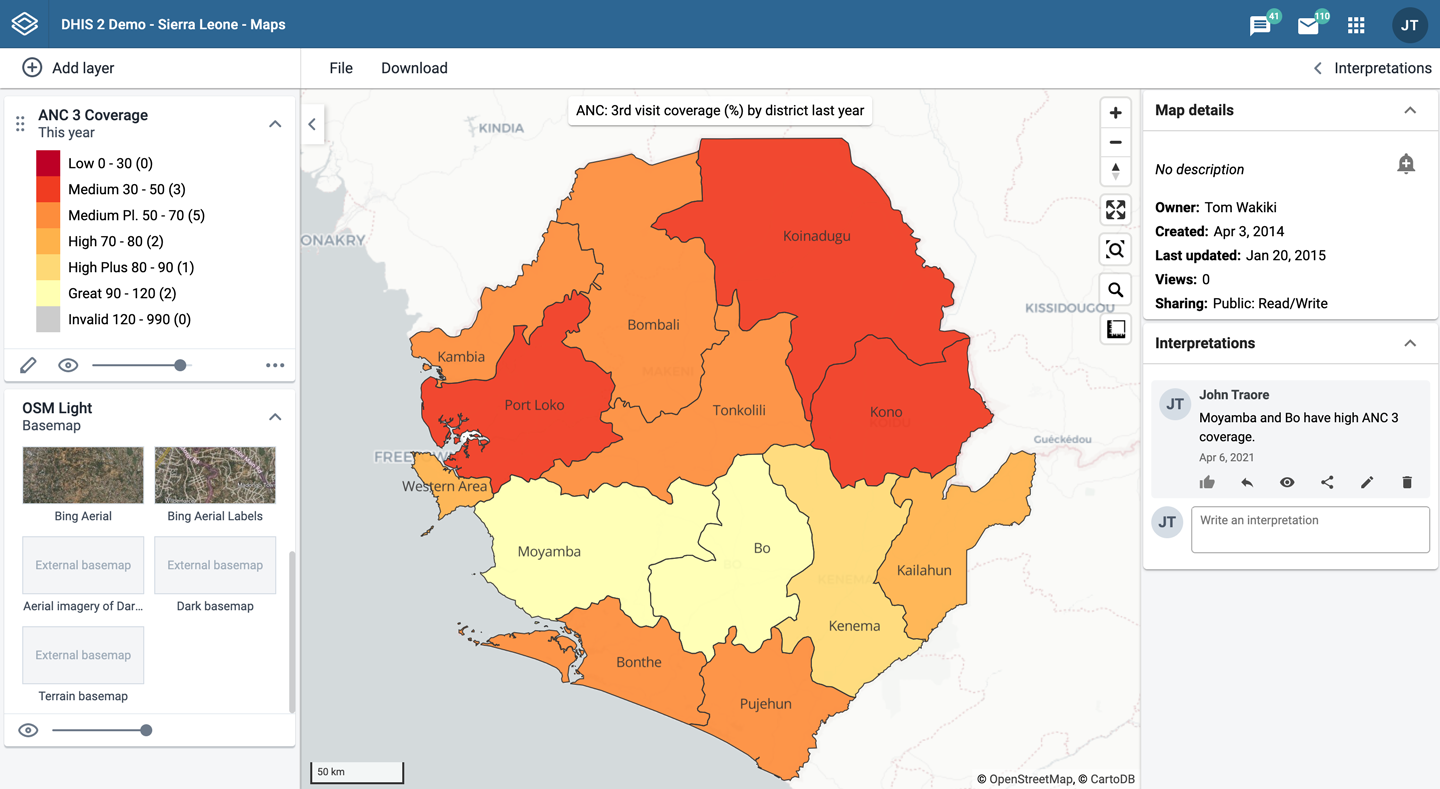
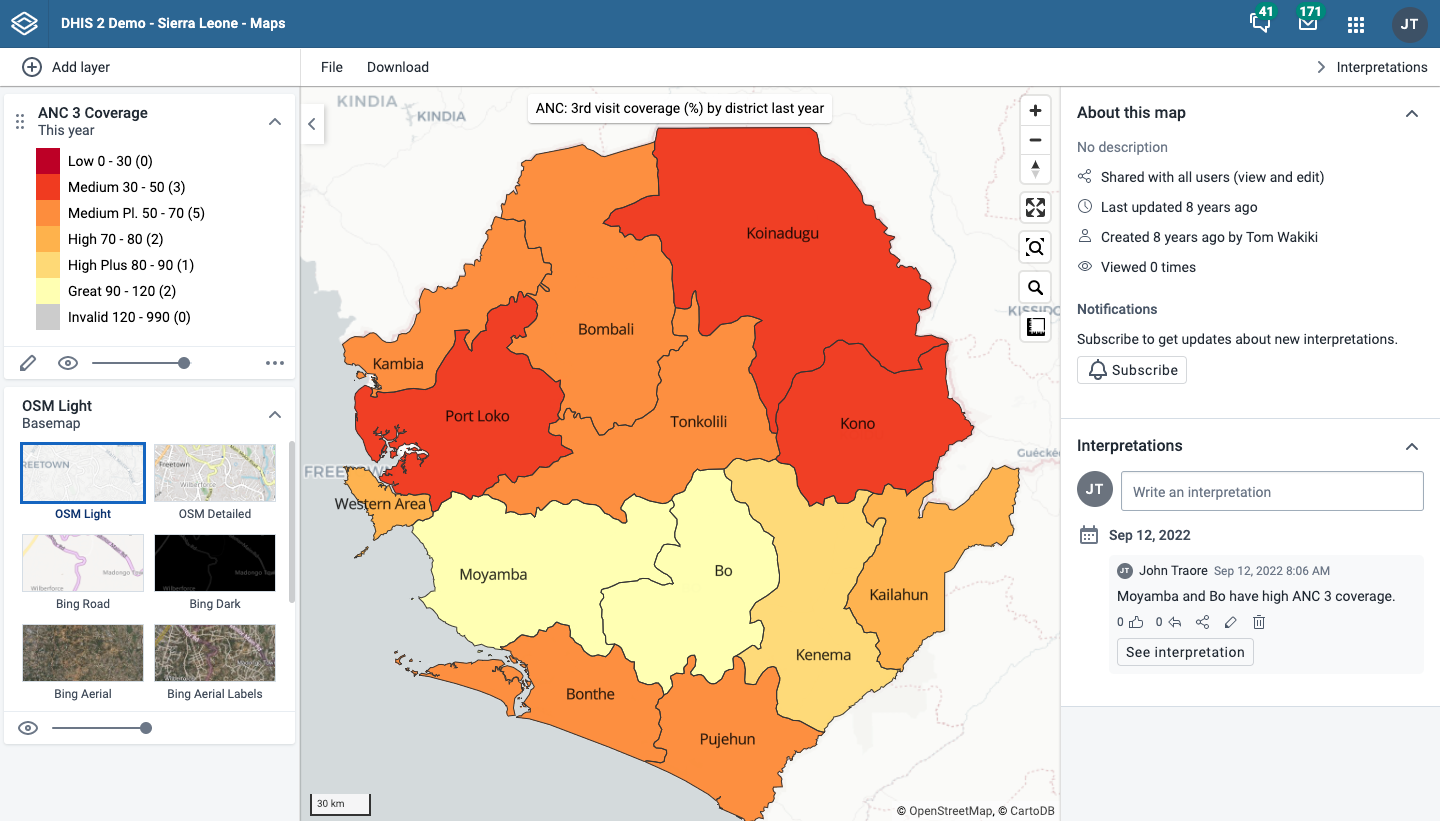
docs: DHIS2 Maps 2.39

diff --git a/src/user/using-the-maps-app.md b/src/user/using-the-maps-app.md
@@ -211,6 +211,10 @@ layer** selection. This opens the Events layer configuration dialog.
       deviation; Variance; Min; Max. See also [Aggregation
       operators](https://dhis2.github.io/dhis2-docs/master/en/user/html/ch10s05.html#d0e8082).
 
+    - **Only show completed events**: Includes only completed events in the aggregation process.
+      This is useful when you want to exclude partial events in indicator calculations. Available
+      for indicators, program indictors and event data items.
+
 2.  In the **PERIOD** tab
 
     ![](resources/images/maps/maps_thematic_layer_dialog_PERIOD.png)
@@ -1495,27 +1499,25 @@ everyone or a user group. To modify the sharing settings:
 
 1.  Click **File** \> **Share**. The sharing settings dialog opens.
 
-2.  In the text box, search for the name of the user or group you want
-    to share your favorite with and select it.
+2.  **Give access to a user or group**: In the text box, search for the name of the
+    user or group you want to share your favorite with and select it.
 
-    The chosen user or group is added to the list of recipients.
+    Select the access level and click on **Give access**.
 
-    Repeat the step to add more user groups.
+    Repeat the step to add more users or groups.
 
-3.  If you want to allow external access, select the corresponding box.
+3.  **Users and groups that currently have access**: For each user or group, choose the
+    access level. The options are:
 
-    Note that in order for logged in and not logged in users to have
-    access, you must also allow public access.
+    - No access: The public won't have access to the map. This setting is only applicable to All users.
 
-4.  For each user group, choose an access setting. The options are:
+    - View only
 
-    - None (for default groups only, as they cannot be removed)
+    - View and edit
 
-    - Can view
+    - Remove access: Remove the access for groups or individuals.
 
-    - Can edit and view
-
-5.  Click **CLOSE** to close the dialog.
+4.  Click **Close** to close the dialog.
 
 ### Get the link to a map
 
@@ -1548,9 +1550,11 @@ To view interpretations for relative periods, such as a year ago:
 2.  Click **Interpretations** in the top right of the workspace to open
     the interpretations panel.
 
-3.  Click an interpretation. Your map displays the data and the date
+3.  Click on **See interpretation**. Your map displays the data and the date
     based on when the interpretation was created. To view other
     interpretations, click them.
+
+![](resources/images/maps/maps_interpretations_modal.png)
 
 ### Write interpretation for a map
 
@@ -1558,7 +1562,7 @@ To create an interpretation, you first need to create a map and save it.
 If you've shared your map with other people, the interpretation you
 write is visible to those people.
 
-1.  Open a favorite with interpretations.
+1.  Open a saved map.
 
 2.  Click **Interpretations** in the top right of the workspace to open
     the interpretations panel.
@@ -1573,32 +1577,32 @@ write is visible to those people.
     an internal DHIS2 message with the interpretation or comment. You
     can see the interpretation in the **Dashboard app**.
 
-5.  Click **SAVE** if you want your interpretation to have the same
-    sharing settings as the map.
-
-    Click **SAVE & SHARE** if you want to change the sharing settings
-    (see below) for your interpretation.
+5.  Click **Post interpretation** to save the interpretation.
 
 ### Change sharing settings for an interpretation
 
 1.  Click an interpretation (see how to view an interpretation above).
 
-2.  Click **Share** below the interpretation. The sharing settings
+2.  Click the share icon below the interpretation. The sharing settings
     dialog opens.
 
 3.  Search for and add a users and user groups that you want to share
-    your map with.
+    your map with, and set the access level. Click on **Give access**.
 
-4.  Change sharing settings for the users you want to modify:
+4.  Change the access level for the users you want to modify:
 
-    - **Can edit and view**: Everyone can view and edit the object.
+    - **View and edit**: Everyone can view and edit the object.
 
-    - **Can view only**: Everyone can view the object.
+    - **View only**: Everyone can view the object.
 
     - **No access**: The public won't have access to the object. This
-      setting is only applicable to Public access.
+      setting is only applicable to All users.
+
+    - **Remove access**: Remove the access for groups or individuals.
 
 5.  Click **CLOSE** when sharing settings are updated.
+
+![](resources/images/maps/maps_interpretations_sharing.png)
 
 ## Save a map as an image { #using_maps_image_export }
 
